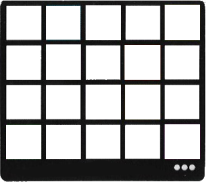
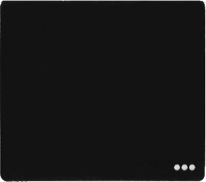
Fixes in package gui and in directory resources

diff --git a/src/main/java/it/polimi/se2018/client/view/gui/MainTest.java b/src/main/java/it/polimi/se2018/client/view/gui/MainTest.java
@@ -2,6 +2,9 @@ package it.polimi.se2018.client.view.gui;
 
 import it.polimi.se2018.mvc.model.Color;
 import it.polimi.se2018.mvc.model.Die;
+import it.polimi.se2018.mvc.model.Window;
+import it.polimi.se2018.mvc.model.objectives.privateobjectives.ShadesOfBlueObjective;
+import it.polimi.se2018.utils.WindowBuilder;
 import javafx.application.Application;
 import javafx.fxml.FXMLLoader;
 import javafx.scene.Parent;
@@ -34,14 +37,40 @@ public class MainTest extends Application{
      */
     @Override
     public void start(Stage primaryStage) throws Exception {
-       List<List<Die>> roundTracker = Arrays.asList(Arrays.asList(new Die(2, Color.BLUE), new Die(5,Color.PURPLE)),Arrays.asList(new Die(4,Color.GREEN)));
+        List<Window> windows = WindowBuilder.extractWindows(1);
+        FXMLLoader loader = new FXMLLoader((getClass().getResource("/scenes/selectWindowScene.fxml")));
+        SelectWindowSceneController selectWindowSceneController = new SelectWindowSceneController(windows,ShadesOfBlueObjective.instance("/objectives/private_objectives/shades_of_blue.png"),new GUIClientView(1));
+        loader.setController((selectWindowSceneController));
+        Parent root = loader.load();
+        primaryStage.setTitle("Sagrada Online");
+        primaryStage.setScene(new Scene(root, 1000, 700));
+        primaryStage.show();
+
+
+
+
+
+
+        /*Window window = WindowBuilder.extractWindows(1).get(0);
+        FXMLLoader loader = new FXMLLoader((getClass().getResource("/scenes/windowImageScene.fxml")));
+        WindowImageSceneController windowImageSceneController = new WindowImageSceneController(window);
+        loader.setController((windowImageSceneController));
+        Parent root = loader.load();
+        primaryStage.setTitle("Sagrada Online");
+        primaryStage.setScene(new Scene(root, 206, 182));
+        primaryStage.show();*/
+
+
+
+
+        /*List<List<Die>> roundTracker = Arrays.asList(Arrays.asList(new Die(2, Color.BLUE), new Die(5,Color.PURPLE)),Arrays.asList(new Die(4,Color.GREEN)));
         FXMLLoader loader = new FXMLLoader((getClass().getResource("/scenes/RoundTrackerScene.fxml")));
         RoundTrackerSceneController roundTrackerSceneController = new RoundTrackerSceneController(roundTracker);
         loader.setController(roundTrackerSceneController);
         Parent root = loader.load();
         primaryStage.setTitle("Sagrada Online");
         primaryStage.setScene(new Scene(root, 1892, 396));
-        primaryStage.show();
+        primaryStage.show();*/
 
 
         /*List<String> sortedPlayersNames = Arrays.asList("Emilio", "Cristiano", "Francesco Lorenzo");

diff --git a/src/main/java/it/polimi/se2018/client/view/gui/SelectWindowSceneController.java b/src/main/java/it/polimi/se2018/client/view/gui/SelectWindowSceneController.java
@@ -6,14 +6,17 @@ import javafx.fxml.FXML;
 import javafx.fxml.FXMLLoader;
 import javafx.fxml.Initializable;
 import javafx.geometry.Pos;
+import javafx.scene.Node;
 import javafx.scene.Parent;
 import javafx.scene.Scene;
 import javafx.scene.control.Label;
 import javafx.scene.image.ImageView;
 import javafx.scene.image.Image;
+import javafx.scene.layout.Border;
 import javafx.scene.layout.BorderPane;
 import javafx.scene.layout.GridPane;
 import javafx.scene.control.Button;
+import javafx.scene.layout.Pane;
 import javafx.stage.Stage;
 
 import java.io.IOException;
@@ -53,7 +56,12 @@ public class SelectWindowSceneController implements SceneController, Initializab
             FXMLLoader loader = new FXMLLoader((getClass().getResource("/scenes/windowImageScene.fxml")));
             loader.setController(new WindowImageSceneController(windows.get(i)));
             try {
-                gridPane.add(loader.load(),i,0);
+                Node node = loader.load();
+                Pane pane = new Pane();
+                pane.getChildren().add(node);
+                pane.setMaxWidth(206);
+                pane.setMaxHeight(182);
+                gridPane.add(pane,i,0);
                 buttons[i] = new Button(windows.get(i).getTitle());
                 gridPane.add(buttons[i],i,1);
             } catch (IOException e) {

diff --git a/src/main/java/it/polimi/se2018/client/view/gui/WindowImageSceneController.java b/src/main/java/it/polimi/se2018/client/view/gui/WindowImageSceneController.java
@@ -7,6 +7,7 @@ import javafx.fxml.Initializable;
 import javafx.geometry.HPos;
 import javafx.geometry.Insets;
 import javafx.geometry.VPos;
+import javafx.scene.control.Label;
 import javafx.scene.image.Image;
 import javafx.scene.image.ImageView;
 import javafx.scene.layout.*;
@@ -19,6 +20,9 @@ public class WindowImageSceneController implements Initializable{
 
     @FXML
     private GridPane gridPane;
+
+    @FXML
+    private BorderPane borderPane;
 
     WindowImageSceneController(Window window){
         this.window = window;
@@ -38,9 +42,9 @@ public class WindowImageSceneController implements Initializable{
                 gridPane.add(gridImageView[x][y],y,x);
                 GridPane.setHalignment(gridImageView[x][y], HPos.CENTER);
                 GridPane.setValignment(gridImageView[x][y], VPos.CENTER);
-                GridPane.setMargin(gridImageView[x][y], new Insets(0,19,20,0));
+                //GridPane.setMargin(gridImageView[x][y], new Insets(0,19,20,0));
             }
         }
-        gridPane.setStyle("-fx-background-image: url('"+ window.getLevelPath() + "')");
+        borderPane.setStyle("-fx-background-image: url('"+ window.getLevelPath() + "')");
     }
 }

diff --git a/src/main/java/it/polimi/se2018/client/GUIClient.java b/src/main/java/it/polimi/se2018/client/GUIClient.java
@@ -42,7 +42,7 @@ public class GUIClient extends Application implements Client{
     private boolean isSocket;
     private RemoteManager manager;
 
-    private GUIClient() {
+    public GUIClient() {
         setup = true;
     }
 
